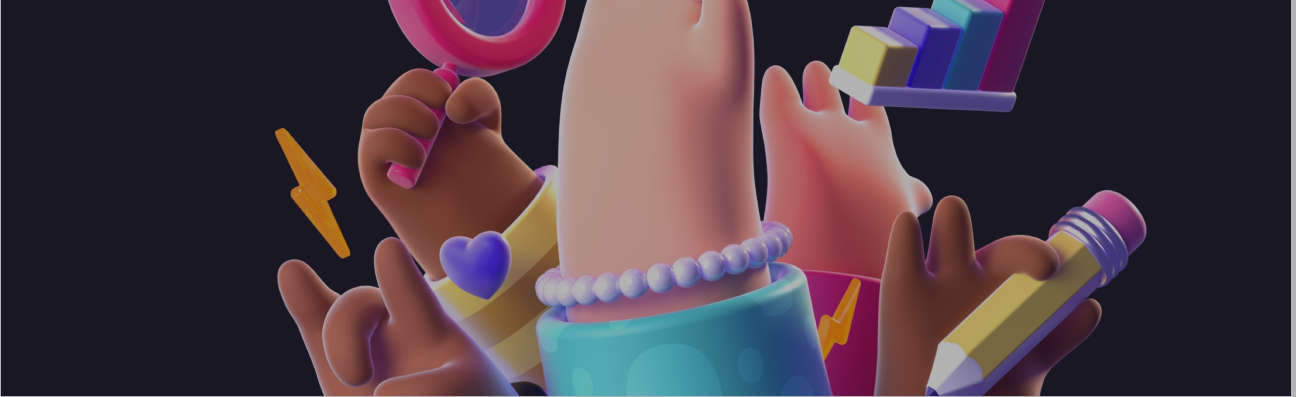
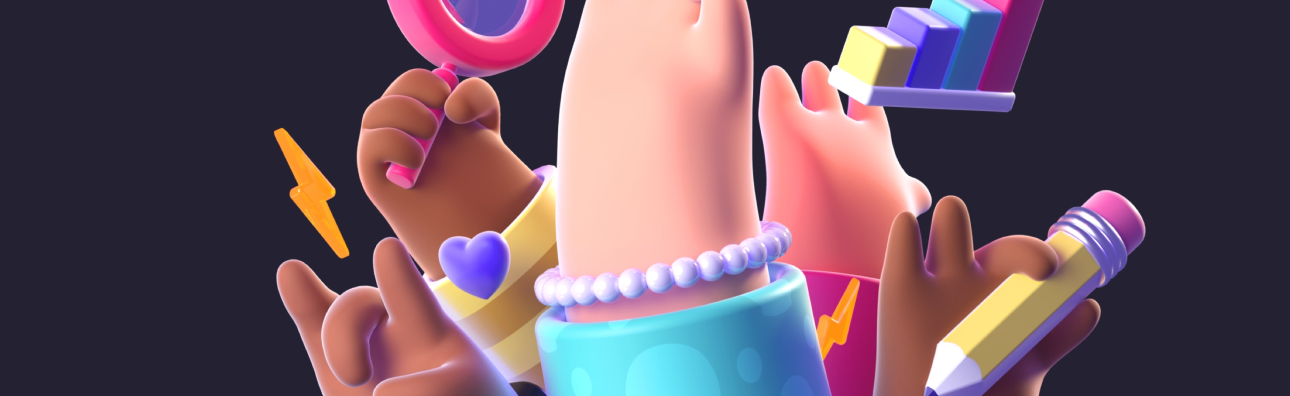
added parallax and refactored markup and styles

diff --git a/index.html b/index.html
@@ -38,11 +38,6 @@
                         Рассмотрим основные развивающиеся тренды 2022 года в
                         моушн дизайне.
                     </p>
-                    <img
-                        class="lead__image"
-                        src="./assets/images/mask_3.png"
-                        alt="bubbles"
-                    />
                     <div class="lead__lable">
                         <svg class="lead__lable-logo">
                             <use
@@ -90,23 +85,26 @@
 
                 <!-- Секция О ПРОЕКТЕ  -->
                 <section class="about content__section section">
-                    <h3 class="about__title">О проекте</h3>
-                    <p class="about__paragraph">
-                        Затронем тенденции, начиная с фильмов и коммерческой
-                        рекламы, до тематических исследований и всего, что между
-                        ними. Вы не увидели бы эту статью без бесчисленных
-                        вкладов.
-                    </p>
-                    <svg class="about__logo">
-                        <use
-                            xlink:href="../../assets/images/icons_sprite.svg#icon_gq"
-                        />
-                    </svg>
-                    <a class="about__link" href="#">Читать больше в статье </a>
-                    <div class="about__image"></div>
+                    <div class="bubble about__bubble"></div>
+                    <div class="about__text-container">
+                        <h3 class="about__title">О проекте</h3>
+                        <p class="about__paragraph">
+                            Затронем тенденции, начиная с фильмов и коммерческой
+                            рекламы, до тематических исследований и всего, что между
+                            ними. Вы не увидели бы эту статью без бесчисленных
+                            вкладов.
+                        </p>
+                        <svg class="about__logo">
+                            <use
+                              xlink:href="../../assets/images/icons_sprite.svg#icon_gq"
+                            />
+                        </svg>
+                        <a class="about__link" href="#">Читать больше в статье </a>
+                    </div>
+                    <div class="map about__map"></div>
                     <svg class="about__point">
                         <use
-                            xlink:href="../../assets/images/icons_sprite.svg#map_point"
+                          xlink:href="../../assets/images/icons_sprite.svg#map_point"
                         />
                     </svg>
                     <h4 class="about__subtitle">Команда Bubble</h4>
@@ -137,13 +135,9 @@
                     </div>
                 </section>
 
-                <!--  Секция INTRO -->
-                <section class="intro content__section section">
-                    <img
-                        class="intro__image"
-                        src="./assets/images/mask_4.png"
-                        alt="ручки"
-                    />
+                <!--  Секция PARALLAX -->
+                <section class="parallax content__section section">
+<!--                    <div class="parallax"></div>-->
                 </section>
 
                 <!--  Секция ФОТО-ГРИД  -->

diff --git a/components/about/about.css b/components/about/about.css
@@ -1,13 +1,42 @@
 .about {
-    margin: 0 auto;
-    padding: 73px 0 58px 236px;
+    margin: 65px auto 0;
+    padding: 26px 0 58px 0;
     position: relative;
     display: flex;
     flex-direction: column;
     justify-content: start;
     align-items: start;
+    background: var(--background);
+    z-index: 1;
+}
 
-    /*background: linear-gradient(180deg, #000000 29.71%, rgba(0, 0, 0, 0) 83.91%);*/
+.about::before {
+    content: '';
+    position: absolute;
+    top: 0;
+    left: 0;
+    right:0;
+    bottom: 0;
+    width: 100%;
+    height: 100%;
+    z-index: -1;
+    background: linear-gradient(180deg, #000000 90%, rgba(0, 0, 0, 0) 100%);
+}
+
+
+.about__bubble {
+    width: 100%;
+    height: 319px;
+    margin: 0 auto 73px;
+}
+
+.about__text-container {
+    width: 100%;
+    margin: 0 auto 0 236px;
+     display: flex;
+    flex-direction: column;
+    justify-content: center;
+    align-self: flex-start;
 }
 
 .about__title {
@@ -67,11 +96,6 @@
     height: 32px;
     margin: 0 auto 11px 0;
     color: var(--white);
-
-    /*background-image: url('../../assets/images/logo_gq.svg');*/
-    /*background-size: contain;*/
-    /*background-repeat: no-repeat;*/
-    /*background-position: center;*/
 }
 
 .about__link {
@@ -84,17 +108,12 @@
     color: var(--white);
 }
 
-.about__image {
+.about__map {
     width: 717px;
     height: 453px;
     position: absolute;
-    top: -37px;
+    top: 306px;
     left: 579px;
-    background-image: url('../../assets/images/map.png');
-    background-size: contain;
-    background-repeat: no-repeat;
-    background-position: center;
-    z-index: -1;
 }
 
 .about__side-bar_left {

diff --git a/src/index.css b/src/index.css
@@ -8,9 +8,11 @@
 @import url('../components/content/content.css');
 @import url('../components/section/section.css');
 @import url('../components/lead/lead.css');
-@import url('../components/intro/intro.css');
+@import url('../components/parallax/parallax.css');
 @import url('../components/photo-grid/photo-grid.css');
 @import url('../components/button/button.css');
 @import url('../components/side-bar/side-bar.css');
 @import url('../components/about/about.css');
 @import url('../components/gradient/gradient.css');
+@import url('../components/map/map.css');
+@import url('../components/bubble/bubble.css');

diff --git a/components/parallax/parallax.css b/components/parallax/parallax.css
@@ -1,0 +1,24 @@
+.parallax {
+    /*width: 100vw;*/
+    height: 397px;
+
+    transform-style: inherit;
+}
+
+.parallax::before {
+    content:'';
+    position: absolute;
+    top:0;
+    left: 0;
+    right: 0;
+    bottom: 0;
+    min-height: 1054px;
+    z-index: -10;
+    transform-origin: center;
+    background-image: url("./../../assets/images/mask_4.png");
+    background-position: center;
+    background-size: cover;
+    background-repeat: no-repeat;
+
+    transform: translateZ(-.5px) scale(1.5);
+}

diff --git a/components/lead/lead.css b/components/lead/lead.css
@@ -6,6 +6,8 @@
     flex-direction: column;
     justify-content: start;
     align-items: flex-start;
+    background: var(--background);
+    z-index: 1;
 }
 
 .lead__image-bg {
@@ -94,10 +96,4 @@
     font-size: 16px;
     line-height: 24px;
     color: var(--gray-3);
-}
-
-.lead__image {
-    width: 100%;
-    height: 319px;
-    margin: 91px auto 0;
 }

diff --git a/components/content/content.css b/components/content/content.css
@@ -1,6 +1,13 @@
 .content {
+    width: 100vw;
+    height: 100vh;
     flex-shrink: 0;
-    /*display: grid;*/
+
+    /*parallax*/
+    perspective: 1px;
+    transform-style: preserve-3d;
+    overflow-x: hidden;
+    overflow-y: scroll;
 }
 
 .content__section {

diff --git a/components/page/page.css b/components/page/page.css
@@ -9,6 +9,10 @@
     max-width: 1295px;
     min-width: 1295px;
     margin: 0 auto;
+    transform-style: preserve-3d;
+    perspective: 1px;
+    overflow-x: hidden;
+    overflow-y: scroll;
 }
 
 .page__container_main {

diff --git a/components/bubble/bubble.css b/components/bubble/bubble.css
@@ -1,0 +1,7 @@
+.bubble {
+    background-image: url("./../../assets/images/bubble.png");
+    background-repeat: no-repeat;
+    background-size: cover;
+    background-position: center;
+    object-fit: cover;
+}

diff --git a/components/map/map.css b/components/map/map.css
@@ -1,0 +1,7 @@
+.map {
+    background-image: url("./../../assets/images/map.png");
+    background-repeat: no-repeat;
+    background-size: cover;
+    background-position: center;
+    object-fit: cover;
+}

diff --git a/components/photo-grid/photo-grid.css b/components/photo-grid/photo-grid.css
@@ -2,6 +2,7 @@
     position: relative;
     font-family: 'OpenSans', Helvetica, sans-serif;
     padding-top: 82px;
+    background: var(--background);
 }
 
 .photo-grid__btm-list {

diff --git a/assets/css/main.css b/assets/css/main.css
@@ -8,6 +8,7 @@
     --gray-6: #535353;
     --gray-7: #8a8a8a;
     --gray-8: #272727;
+    --gray-9: #212121;
     --blue: #04f1ff;
     --white: #ffffff;
     --black: #000000;
